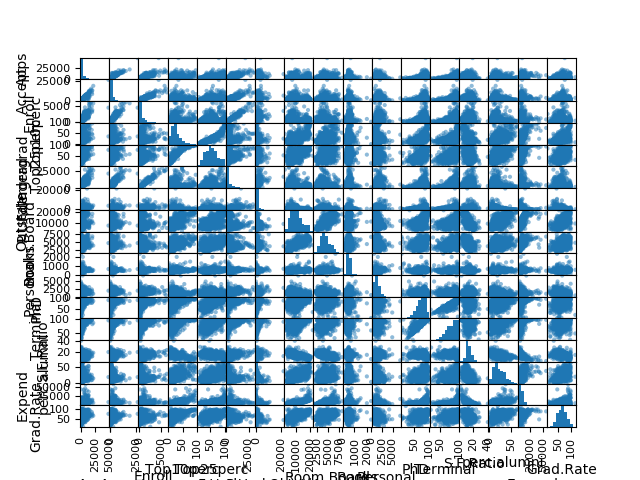
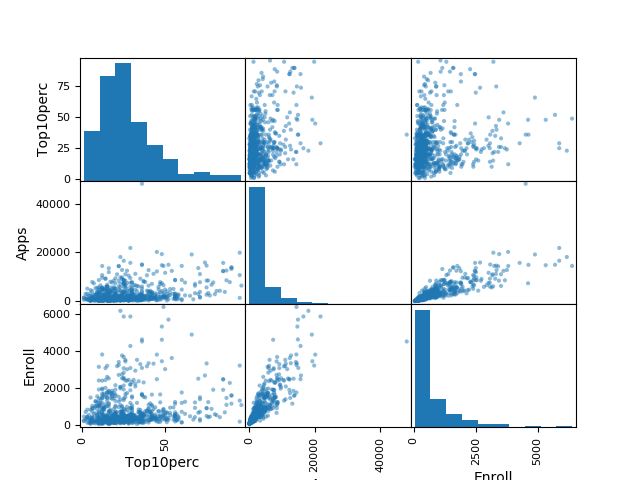
ch2e8 scatter matrix corrected

diff --git a/ch2/exercises/e8/e8.py b/ch2/exercises/e8/e8.py
@@ -26,6 +26,6 @@ print( college.describe())
 # (d) scatter plot matrix
 
 #fig, axes = subplots(figsize = (8,8))
-pd.plotting.scatter_matrix(college)
+pd.plotting.scatter_matrix(college.loc[:, ['Top10perc', 'Apps', 'Enroll']])
 plt.savefig('scatter_matrix.png')
 
